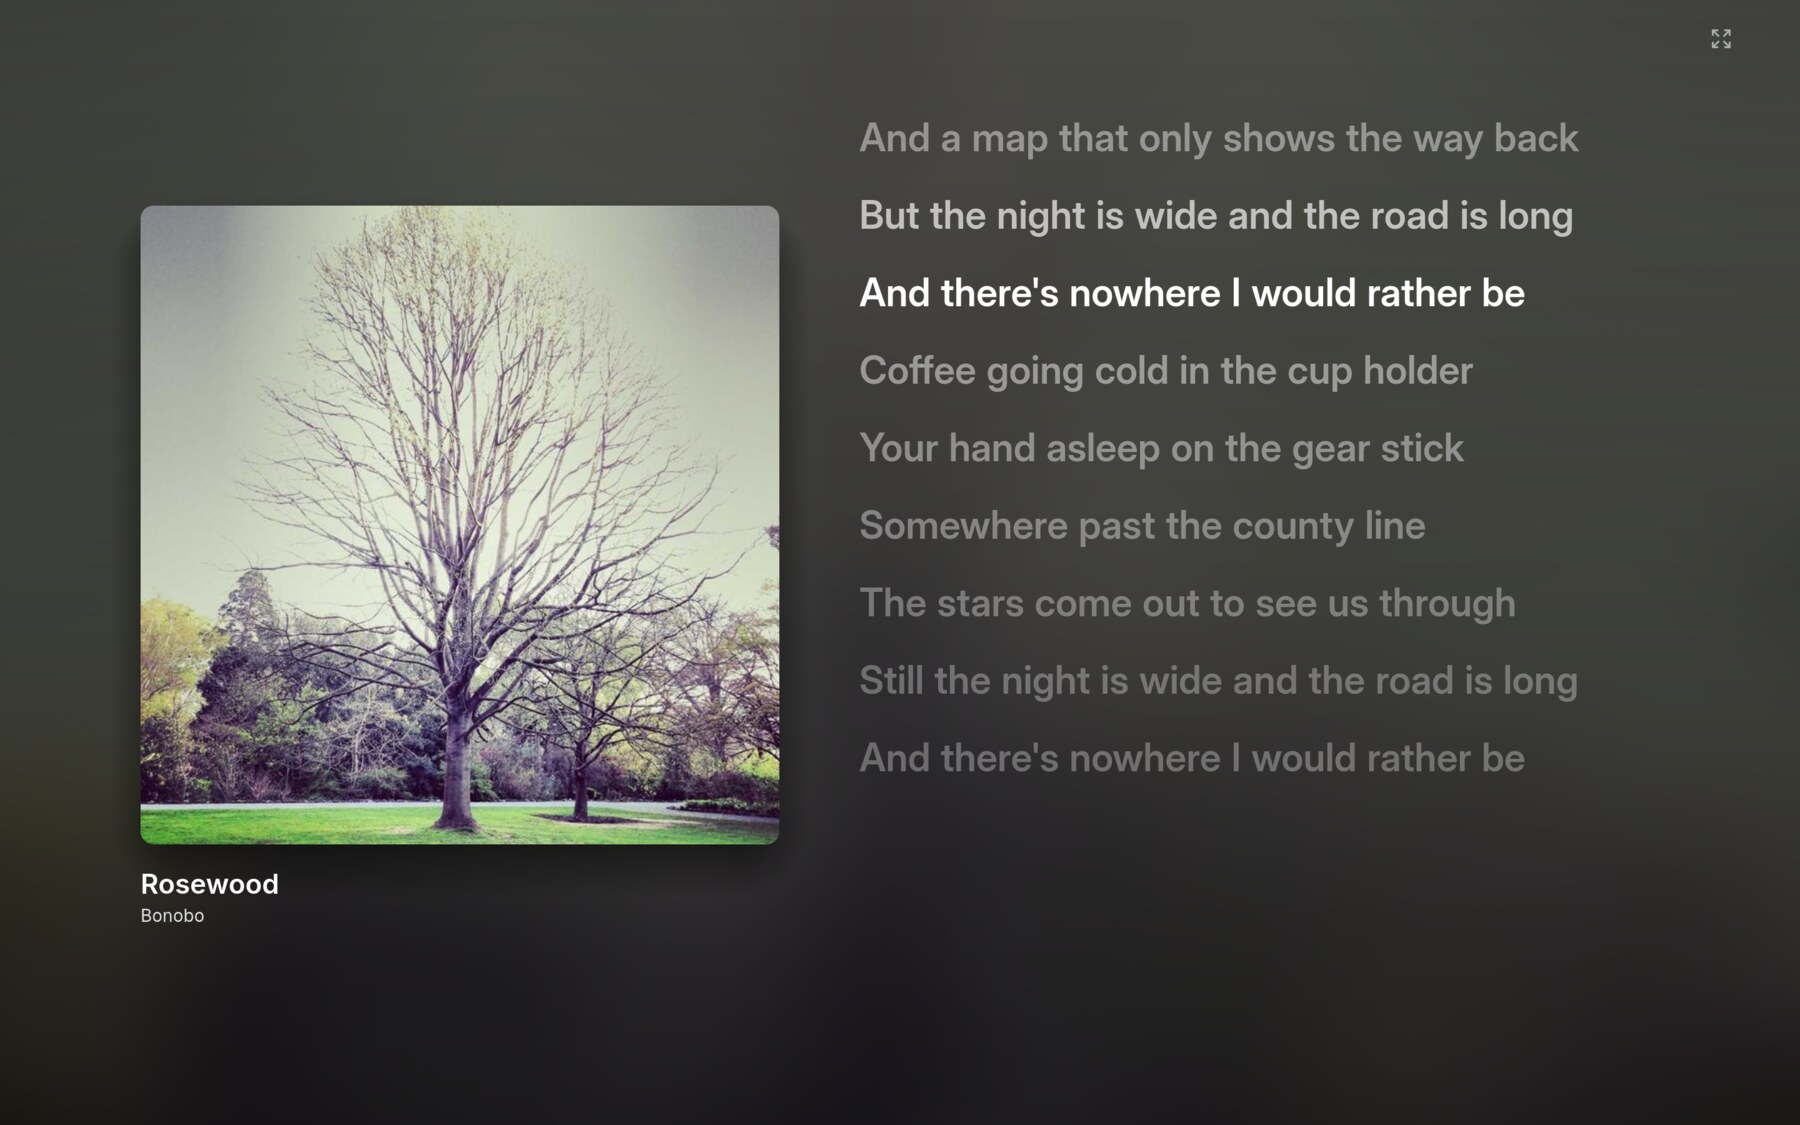
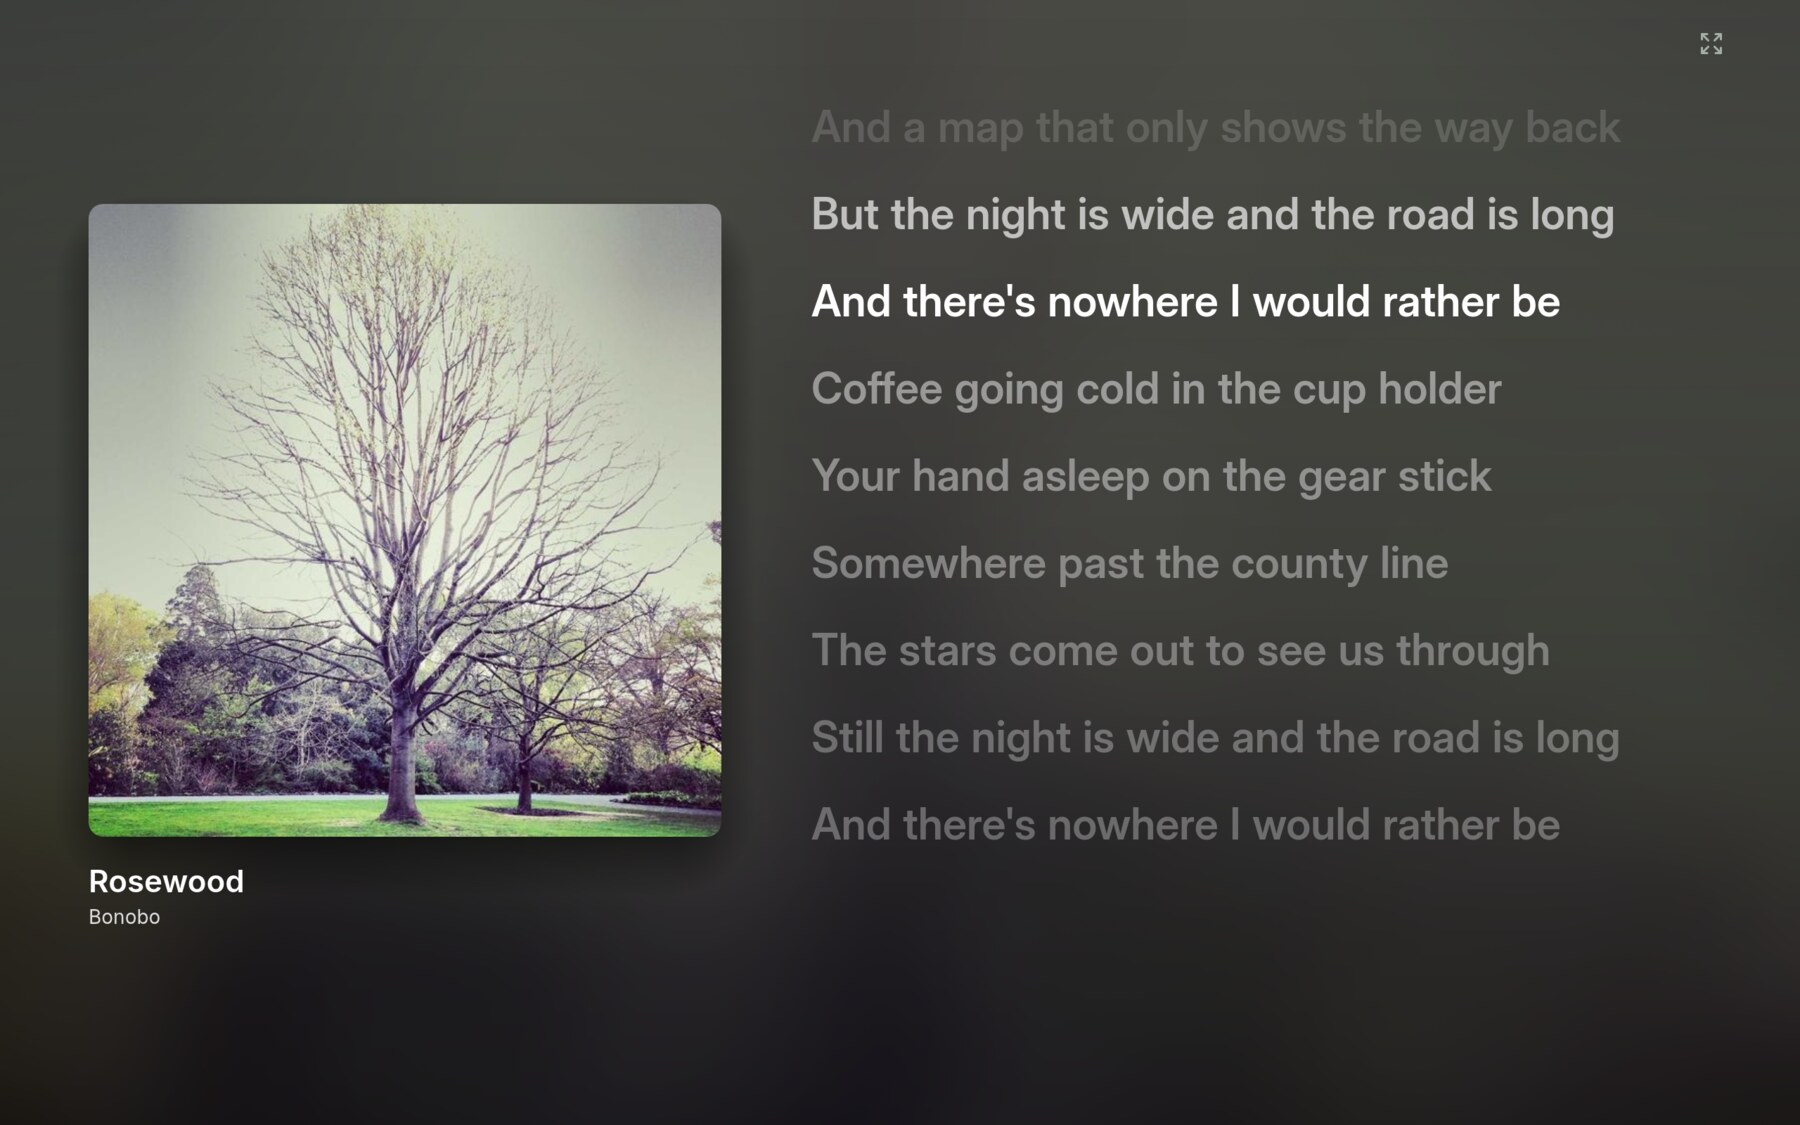
Website: a warmer hero, a centred tour, and new testimonials
- The heading reads "Meet Spotsie, Spotify without the weight".
- "No account, no telemetry" becomes "Private, no telemetry".
- The tour's screenshot sits in the middle under its heading, with the
  tabs right beside it and the caption centred beneath it.
- "Sing along, badly" becomes "Sing along, beautifully".
- Three testimonials are replaced and one is removed.
- The lyrics screenshot (site and README) is retaken at a size where the
  lyrics span the height of the cover beside them.

Changed region(s): [[0.0311, 0.0933, 0.9022, 0.84], [0.9333, 0.0311, 0.9644, 0.0622]]

diff --git a/site/index.html b/site/index.html
@@ -41,7 +41,7 @@
 
 <section class="hero">
   <div class="record" aria-hidden="true"><img class="hero-icon" src="icon.svg" alt="" width="128" height="128"></div>
-  <h1>Spotify, <em>without the weight</em></h1>
+  <h1>Meet Spotsie,<br><em>Spotify without the weight</em></h1>
   <p class="lede">Spotsie is a native Spotify client. It looks like the Spotify you know, opens in a blink, and doesn’t bring a web browser along for the ride.</p>
   <div class="cta">
     <a class="btn primary" href="#install">Install Spotsie</a>
@@ -58,7 +58,7 @@
   <div><strong>Native, written in Rust</strong><span>No Electron, no Chromium inside</span></div>
   <div><strong>Feels like home</strong><span>Laid out like Spotify’s desktop app</span></div>
   <div><strong>A speaker of its own</strong><span>Spotify Connect, both ways</span></div>
-  <div><strong>No account, no telemetry</strong><span>Just you and Spotify</span></div>
+  <div><strong>Private, no telemetry</strong><span>Just you and Spotify</span></div>
 </section>
 
 <section id="tour" class="tour">
@@ -117,7 +117,7 @@
 </section>
 
 <section id="lyrics" class="pair">
-  <h2 class="reveal">Sing along, <em>badly</em></h2>
+  <h2 class="reveal">Sing along, <em>beautifully</em></h2>
   <p class="sub reveal">Timed lyrics that follow the song, and a cover view that fills the room. Both go full screen, and the player bar steps aside until you reach for it.</p>
   <div class="pair-grid reveal">
     <figure class="shot"><img src="media/lyrics.webp" alt="Lyrics following the song beside the cover" width="1880" height="1175" loading="lazy"></figure>
@@ -152,13 +152,12 @@
   <h2 class="reveal">What people are definitely saying</h2>
   <div class="deck quote-deck reveal" data-auto="6000" aria-roledescription="carousel" aria-label="Made-up testimonials">
     <div class="cards">
-      <figure class="card quote"><blockquote>“My laptop fan used to sing along to every song. Now it’s just me. Sorry, neighbours.”</blockquote><figcaption><b>Marco T.</b>Former fan owner</figcaption></figure>
-      <figure class="card quote"><blockquote>“I double-clicked a song and it played. Immediately. I had to sit down.”</blockquote><figcaption><b>Priya S.</b>Easily moved</figcaption></figure>
-      <figure class="card quote"><blockquote>“It looks exactly like Spotify, so my partner still hasn’t noticed I switched. Our relationship is built on this.”</blockquote><figcaption><b>Jordan K.</b>Keeping one secret</figcaption></figure>
+      <figure class="card quote"><blockquote>“My RAM sent me a thank-you card. Handwritten. I didn’t know RAM could write.”</blockquote><figcaption><b>Lena W.</b>Has 8 GB, feels rich</figcaption></figure>
+      <figure class="card quote"><blockquote>“I installed it with one line. I now introduce myself at parties as ‘basically a developer’.”</blockquote><figcaption><b>Tom H.</b>Basically a developer</figcaption></figure>
       <figure class="card quote"><blockquote>“I closed forty browser tabs to make room for my music player. Turns out I didn’t have to.”</blockquote><figcaption><b>Dev, Senior Engineer</b>Reopened all forty</figcaption></figure>
       <figure class="card quote"><blockquote>“The lyrics follow the song so well I’ve stopped making up my own. My band is furious.”</blockquote><figcaption><b>Sam L.</b>Retired lyricist</figcaption></figure>
       <figure class="card quote"><blockquote>“The icon is a vinyl record. I’ve never owned a record. I now describe myself as a collector.”</blockquote><figcaption><b>Ava R.</b>Vinyl adjacent</figcaption></figure>
-      <figure class="card quote"><blockquote>“It said ‘Update available’ and then waited for me. Nothing has waited for me since 2009.”</blockquote><figcaption><b>Gerald P.</b>Trusts buttons again</figcaption></figure>
+      <figure class="card quote"><blockquote>“Finally, a music app that opens faster than the punk songs I play in it.”</blockquote><figcaption><b>Rafa M.</b>Two-minute songs only</figcaption></figure>
     </div>
     <button class="nav prev" type="button" aria-label="Previous"><svg viewBox="0 0 20 20" width="18" height="18" aria-hidden="true"><path d="M12.5 4.5 7 10l5.5 5.5" fill="none" stroke="currentColor" stroke-width="1.8" stroke-linecap="round" stroke-linejoin="round"/></svg></button>
     <button class="nav next" type="button" aria-label="Next"><svg viewBox="0 0 20 20" width="18" height="18" aria-hidden="true"><path d="M7.5 4.5 13 10l-5.5 5.5" fill="none" stroke="currentColor" stroke-width="1.8" stroke-linecap="round" stroke-linejoin="round"/></svg></button>

diff --git a/site/style.css b/site/style.css
@@ -183,7 +183,12 @@ h1 { font-size: clamp(36px, 5vw, 60px); line-height: 1.08; }
 .facts span { color: var(--text2); font-size: 14px; }
 
 /* Tour: sized so the screenshot and its caption fit on one screen. */
-.tour-body { display: grid; grid-template-columns: 180px 1fr; gap: 28px; align-items: start; }
+/* Three columns: the screenshot in the middle, under the heading, with the
+   tabs pressed against its left edge and an empty column balancing them. */
+.tour-body { display: grid; grid-template-columns: 1fr auto 1fr; gap: 20px; align-items: start; }
+.tour-body .tabs { justify-self: end; }
+.stage { width: min(860px, calc((100vh - 270px) * 1.6), calc(100vw - 2 * (150px + 20px) - 32px)); }
+.stage { width: min(860px, calc((100svh - 270px) * 1.6), calc(100vw - 2 * (150px + 20px) - 32px)); }
 .tabs { display: flex; flex-direction: column; gap: 2px; }
 .tabs button {
   appearance: none; border: 0; background: transparent; cursor: pointer;
@@ -196,9 +201,7 @@ h1 { font-size: clamp(36px, 5vw, 60px); line-height: 1.08; }
 .tabs button:focus-visible, .seg button:focus-visible, .copy:focus-visible, .nav:focus-visible { outline: 2px solid var(--accent); outline-offset: 2px; }
 .frames {
   display: grid; aspect-ratio: 1880 / 1175; margin: 0 auto;
-  width: min(100%, calc((100vh - 270px) * 1.6));
-  width: min(100%, calc((100svh - 270px) * 1.6));
-  min-width: min(100%, 520px);
+  width: 100%;
 }
 .frames img { grid-area: 1 / 1; width: 100%; opacity: 0; transition: opacity .35s ease; }
 .frames img.on { opacity: 1; }
@@ -314,6 +317,8 @@ footer a { color: var(--text2); }
   section { padding: 56px 16px; }
   .facts { grid-template-columns: 1fr 1fr; }
   .tour-body { grid-template-columns: 1fr; gap: 16px; }
+  .tour-body .tabs { justify-self: stretch; }
+  .stage { width: 100%; }
   .tabs {
     flex-direction: row; overflow-x: auto; gap: 4px;
     margin: 0 -16px; padding: 0 16px; scrollbar-width: none;
